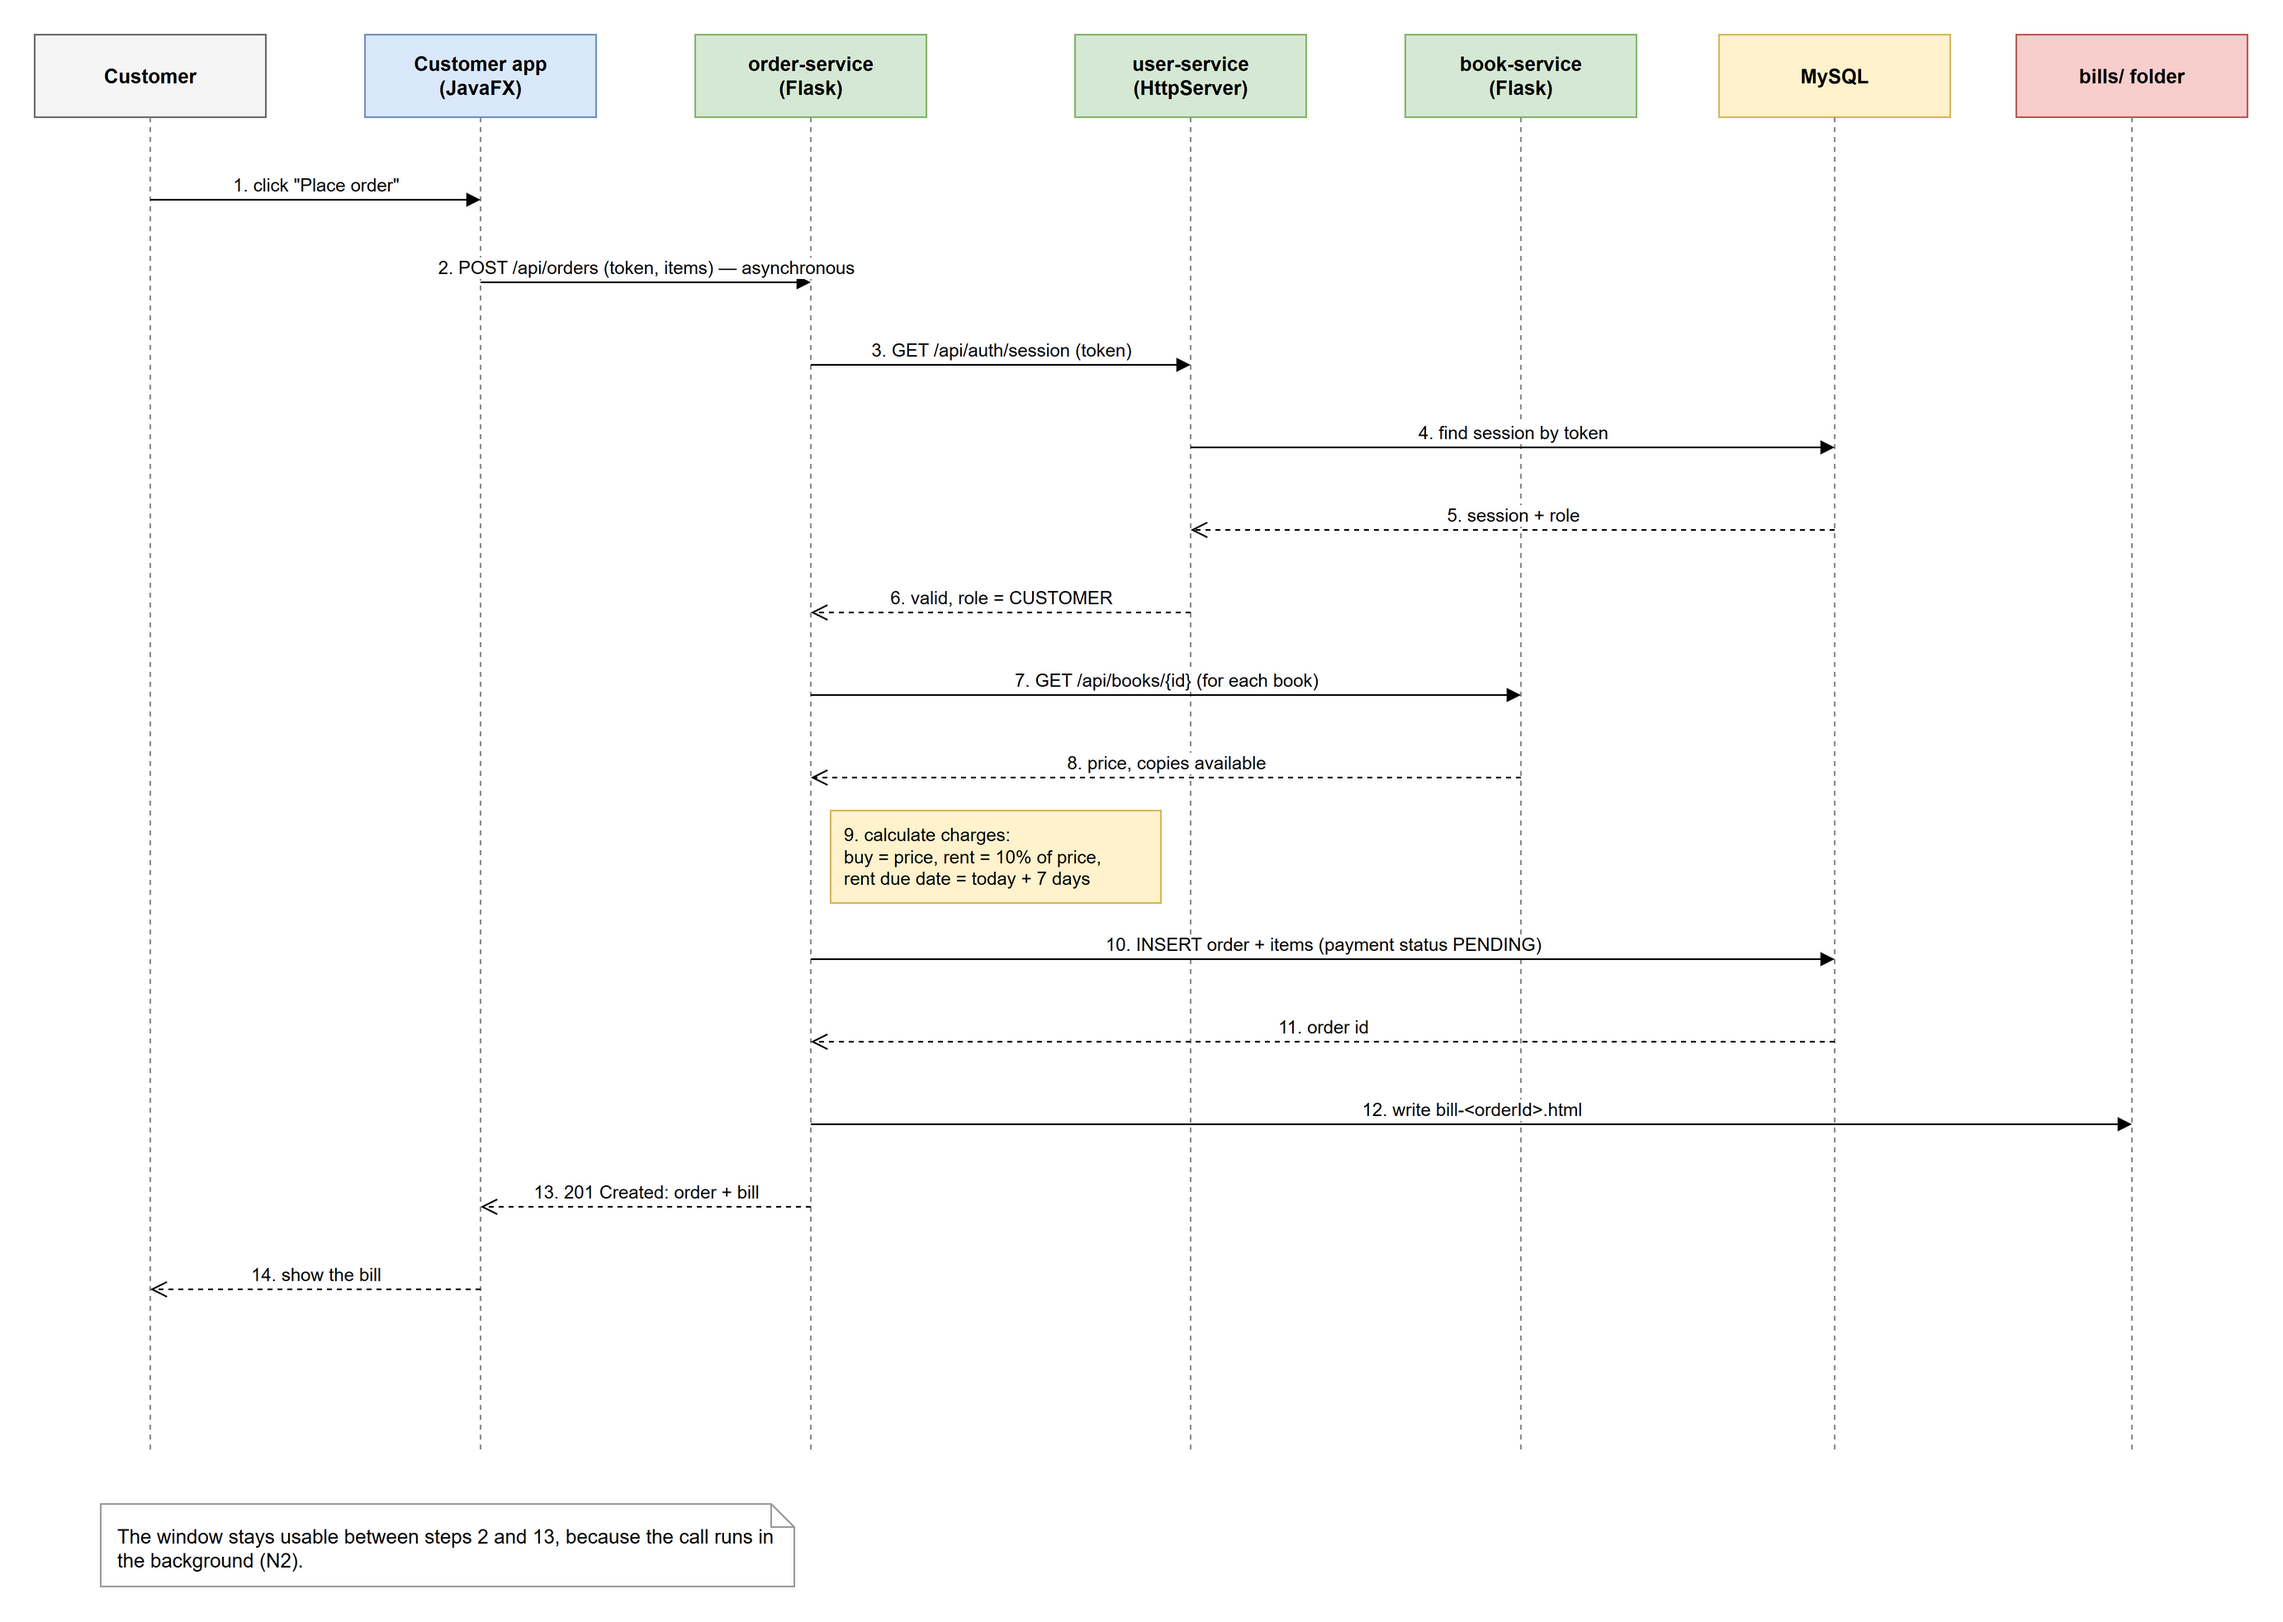
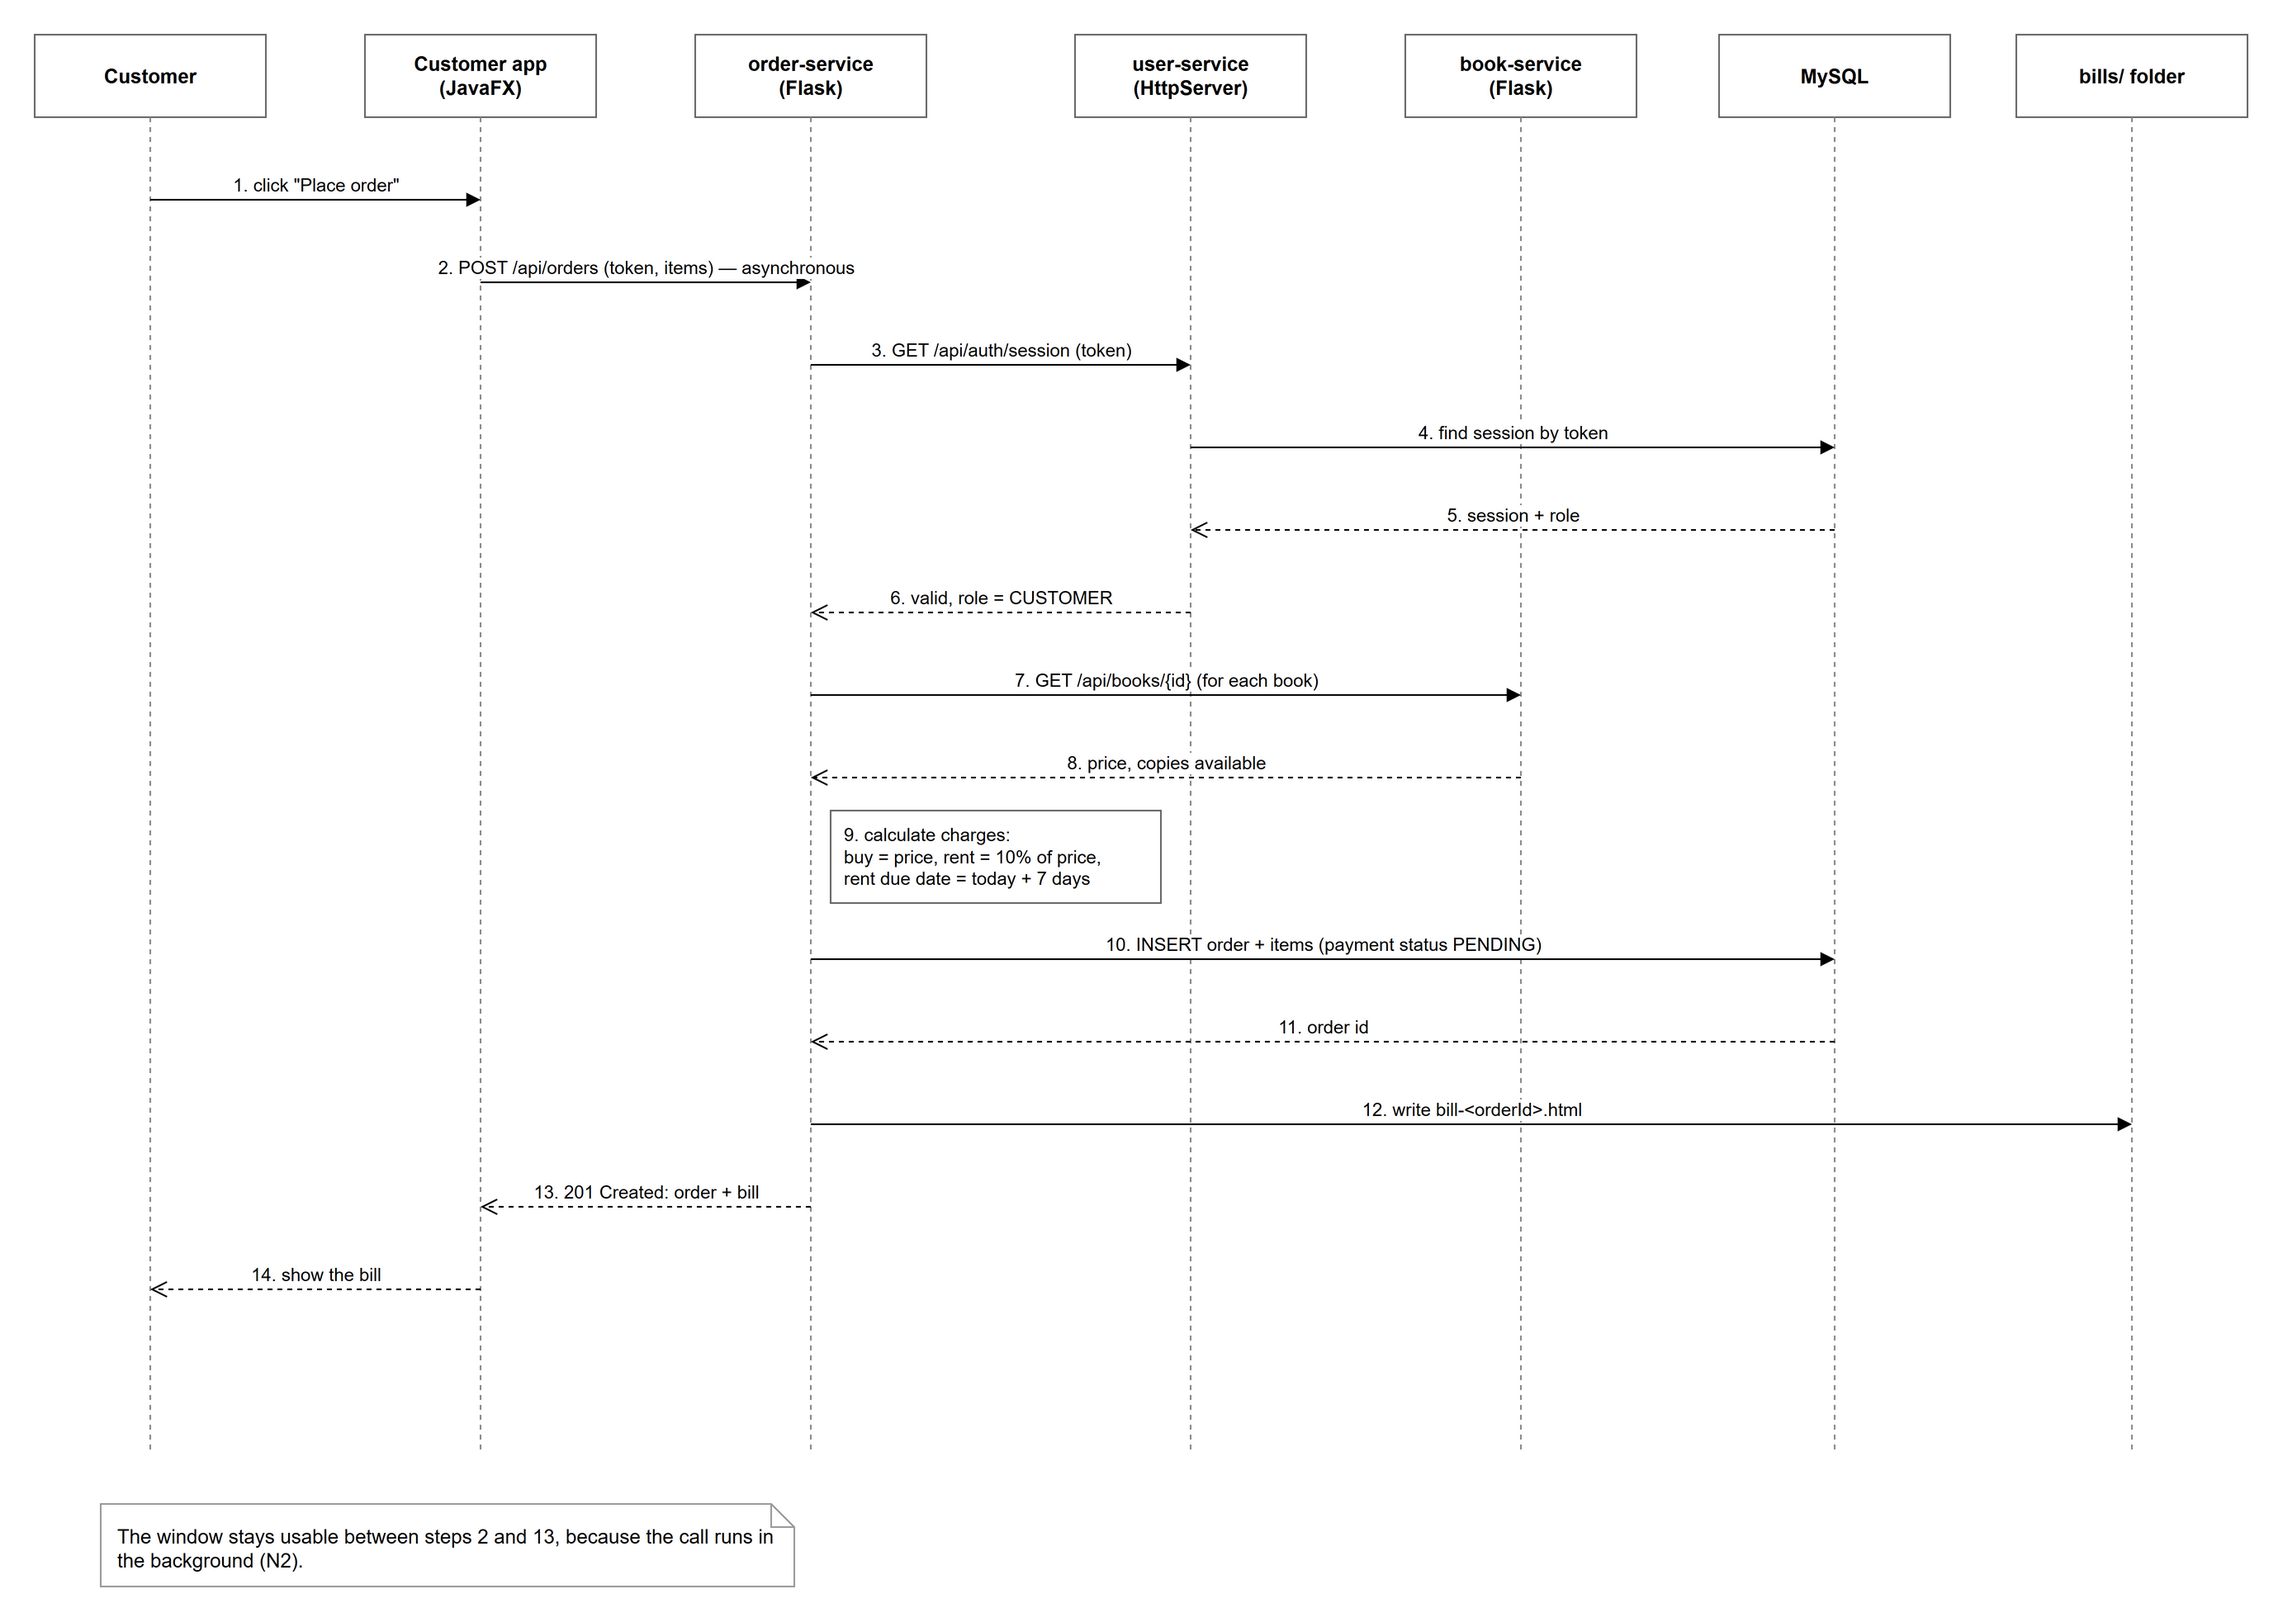
Remove deployment, package, and composite structure diagrams
Also redraw the sequence diagram without colors.

diff --git a/docs/02-design/uml-diagrams.md b/docs/02-design/uml-diagrams.md
@@ -2,21 +2,18 @@
 
 > Status: **draft**. To be finalized in milestone M2.
 
-Every UML diagram type, applied to the bookstore. All are drawn in draw.io; each image has its source file next to it in [diagrams/](diagrams/README.md).
+The UML diagrams of the bookstore. All are drawn in draw.io; each image has its source file next to it in [diagrams/](diagrams/README.md).
 
 | # | Diagram | Kind | What it shows for this project |
 |---|---|---|---|
 | 1 | [Class](#1-class-diagrams) | Structural | The classes of the two apps and the three services |
 | 2 | [Object](#2-object-diagram) | Structural | One real order at one moment, with actual values |
 | 3 | [Component](#3-component-diagram) | Structural | The apps, services, and databases, and the interfaces between them |
-| 4 | [Deployment](#4-deployment-diagram) | Structural | Which program runs on which machine and port |
-| 5 | [Package](#5-package-diagram) | Structural | How the code is organized into packages |
-| 6 | [Composite structure](#6-composite-structure-diagram) | Structural | What is inside order-service |
-| 7 | [Profile](#7-profile-diagram) | Structural | Our own labels (stereotypes) used across the diagrams |
-| 8 | [Use case](#8-use-case-diagram) | Behavioral | What customers and managers can do |
-| 9 | [Sequence](#9-sequence-diagram) | Behavioral | The messages exchanged when an order is placed |
-| 10 | [Activity](#10-activity-diagram) | Behavioral | The steps a customer follows to place an order |
-| 11 | [State machine](#11-state-machine-diagram) | Behavioral | The states of an order and of a user session |
+| 4 | [Profile](#4-profile-diagram) | Structural | Our own labels (stereotypes) used across the diagrams |
+| 5 | [Use case](#5-use-case-diagram) | Behavioral | What customers and managers can do |
+| 6 | [Sequence](#6-sequence-diagram) | Behavioral | The messages exchanged when an order is placed |
+| 7 | [Activity](#7-activity-diagram) | Behavioral | The steps a customer follows to place an order |
+| 8 | [State machine](#8-state-machine-diagram) | Behavioral | The states of an order and of a user session |
 
 ---
 
@@ -42,25 +39,7 @@ A snapshot of the example used throughout the docs: the customer `alice` has jus
 
 Each service provides one REST interface (the circles). Both apps use all three. order-service and book-service ask user-service to validate the session token, and order-service asks book-service for prices and available copies.
 
-### 4. Deployment diagram
-
-![Deployment diagram](diagrams/deployment.png)
-
-The two apps are separate programs that talk to the server over HTTP. For the course demo everything runs on one computer.
-
-### 5. Package diagram
-
-![Package diagram](diagrams/package.png)
-
-This is also the folder layout of the repository: `clients/` and `services/`. Inside each program, the arrows show which package depends on which.
-
-### 6. Composite structure diagram
-
-![Composite structure diagram of order-service](diagrams/composite-structure.png)
-
-The inside of order-service, the most complex part of the system. The small squares on the border are its ports: one where requests come in, and one for each outside thing it talks to. The dashed part is the optional email feature (FR10).
-
-### 7. Profile diagram
+### 4. Profile diagram
 
 ![Profile diagram](diagrams/profile.png)
 
@@ -80,7 +59,7 @@ Stereotypes are our own labels that extend standard UML. Where each one applies:
 
 ## Behavioral diagrams
 
-### 8. Use case diagram
+### 5. Use case diagram
 
 ![Use case diagram](diagrams/use-case.png)
 
@@ -97,19 +76,19 @@ Stereotypes are our own labels that extend standard UML. Where each one applies:
 | Update payment status | Manager | FR13 |
 | Add book, Update book information | Manager | FR14 |
 
-### 9. Sequence diagram
+### 6. Sequence diagram
 
 ![Sequence diagram for placing an order](diagrams/sequence-place-order.png)
 
 Placing an order is the one flow that touches every part of the system, so it is the one drawn.
 
-### 10. Activity diagram
+### 7. Activity diagram
 
 ![Activity diagram for placing an order](diagrams/activity-place-order.png)
 
 The same flow as the sequence diagram, but from the customer's point of view: the steps and the decisions.
 
-### 11. State machine diagram
+### 8. State machine diagram
 
 ![State machine diagrams](diagrams/state-machine.png)
 

diff --git a/docs/04-planning/milestones.md b/docs/04-planning/milestones.md
@@ -22,7 +22,7 @@ The live version of this plan is on GitHub: milestones hold the deadlines, issue
 
 ### M2 — Design (due 2026-11-19)
 
-- [x] UML diagrams: class, object, component, deployment, package, composite structure, profile, use case, sequence, activity, state machine
+- [x] UML diagrams: class, object, component, profile, use case, sequence, activity, state machine
 - [ ] Finalize MySQL schema and MongoDB document model, and plan the seed data
 - [ ] Finalize REST API specification
 - [ ] UI wireframes for both desktop apps
@@ -59,4 +59,4 @@ Add a short dated note whenever a milestone closes or a deadline moves, and say 
 | 2026-11-13 | Deadlines rescheduled to fit the final submission deadline of 2026-12-04. |
 | 2026-11-13 | Official PRD received. Requirements, design docs, diagrams, and tasks corrected to match it. |
 | 2026-11-13 | Non-functional requirements received. Backend stack changed from Spring Boot to Java HttpServer + Python Flask (see problem log P-001). Deadlines unchanged. |
-| 2026-11-13 | All eleven UML diagram types drawn in draw.io (first drafts), ahead of the M2 deadline. |
+| 2026-11-13 | UML diagrams drawn in draw.io (first drafts), ahead of the M2 deadline. Deployment, package, and composite structure diagrams were drawn and then dropped as not needed. |

diff --git a/docs/02-design/diagrams/README.md b/docs/02-design/diagrams/README.md
@@ -22,9 +22,6 @@ When a diagram changes, update the `.drawio` file, export the image again, and c
 | Class diagram, backend services | `class-services.drawio` | `class-services.png` | [uml-diagrams.md](../uml-diagrams.md) |
 | Object diagram | `object.drawio` | `object.png` | [uml-diagrams.md](../uml-diagrams.md) |
 | Component diagram | `component.drawio` | `component.png` | [uml-diagrams.md](../uml-diagrams.md) |
-| Deployment diagram | `deployment.drawio` | `deployment.png` | [uml-diagrams.md](../uml-diagrams.md) |
-| Package diagram | `package.drawio` | `package.png` | [uml-diagrams.md](../uml-diagrams.md) |
-| Composite structure diagram | `composite-structure.drawio` | `composite-structure.png` | [uml-diagrams.md](../uml-diagrams.md) |
 | Profile diagram | `profile.drawio` | `profile.png` | [uml-diagrams.md](../uml-diagrams.md) |
 | Use case diagram | `use-case.drawio` | `use-case.png` | [uml-diagrams.md](../uml-diagrams.md) |
 | Sequence diagram: place an order | `sequence-place-order.drawio` | `sequence-place-order.png` | [uml-diagrams.md](../uml-diagrams.md) |

diff --git a/CHANGELOG.md b/CHANGELOG.md
@@ -8,7 +8,7 @@ All versions and patches of the project, newest first.
 - Repository structure for process documentation: idea, design, problem log, planning
 - Draft project idea, proposed architecture, database design, and API design
 - Milestone plan and versioning rules
-- UML diagrams of every type: class (apps and services), object, component, deployment, package, composite structure, profile, use case, sequence, activity, state machine
+- UML diagrams: class (apps and services), object, component, profile, use case, sequence, activity, state machine
 - Design diagrams drawn in draw.io, with sources and exported images in `docs/02-design/diagrams`
 
 ### Changed

diff --git a/docs/02-design/architecture.md b/docs/02-design/architecture.md
@@ -66,7 +66,7 @@ Manager-only actions are refused unless the session belongs to a manager (FR11).
 
 ## Still to design in M2
 
-- [x] Use case, sequence, activity, state machine, component, deployment, package, object, composite structure, and profile diagrams — see [uml-diagrams.md](uml-diagrams.md)
+- [x] Use case, sequence, activity, state machine, component, object, and profile diagrams — see [uml-diagrams.md](uml-diagrams.md)
 - [x] Class diagrams for both clients — see [class-diagrams.md](class-diagrams.md)
 - [x] Class diagrams for the three services — see [uml-diagrams.md](uml-diagrams.md)
 - [ ] UI wireframes for both clients
